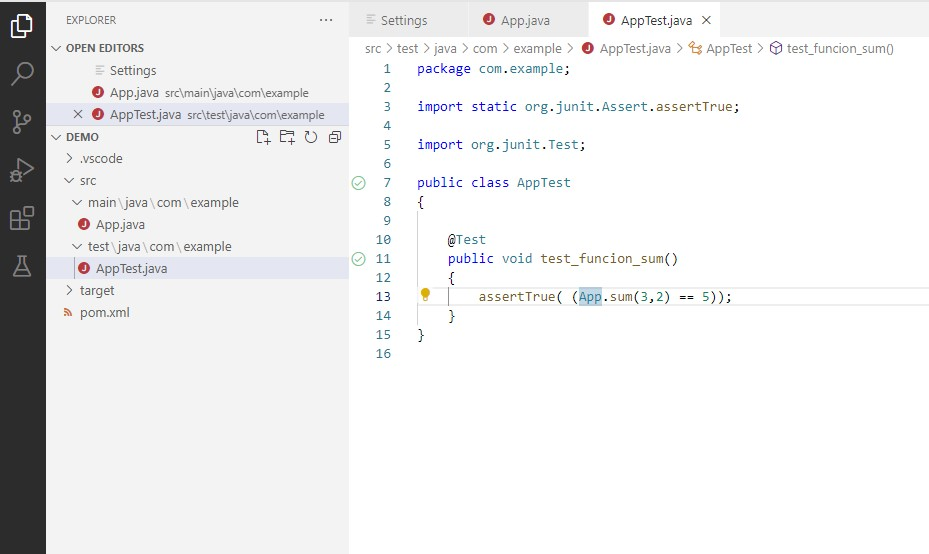
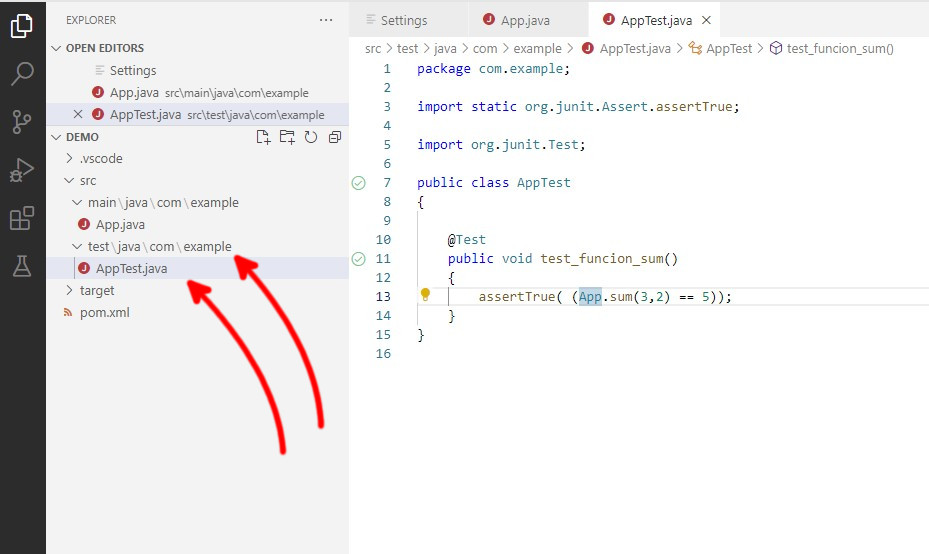
modificaciones imagenes

diff --git a/knowledge/Programacion/Java/Conceptos avanzados/Unit testing.html b/knowledge/Programacion/Java/Conceptos avanzados/Unit testing.html
@@ -99,13 +99,17 @@
 
     <div class="t2">Ejecucion de Tests</div>
         <div class="cont">
-        <p>Cuando escribimos un test la primera vez que lo vayamos a ejecutar tenemos que lanzarlo con el comando <b>mvn test</b> (ya sea desde la consola o desde el IDE de Visual Code), esto se debe a que los tests primero se tienen que compilar, si intentamos ejecutarlos directamente desde el Visual Code, no se ejecutaran porque la clase de los tests no esta creada</p>
+        <p>Cuando escribimos un test la primera vez que lo vayamos a ejecutar tenemos que lanzarlo con el comando <b>mvn test</b> (ya sea desde la consola o desde el IDE de Visual Code), esto se debe a que los tests primero se tienen que compilar, si intentamos ejecutarlos directamente desde el Visual Code, no se ejecutaran porque el archivo <b>.class</b> de los tests no esta creado</p>
 
         <img src="Unit testing/2.jpg"/>
 
-        <p>Entonces, primero compilamos los tests (esto ya los ejecutará directamente)</p>
+        <p>Entonces, primero compilamos los tests con <b>mvn test</b>(esto ya los ejecutará directamente)</p>
 
-        <p>y una vez esten compilados ya los podemos ejecutar directamente desde el visual code, si queremos podemos ejecutarlos siempre usando el <b>mvn test</b>
+        <p>y una vez esten compilados ya los podemos ejecutar directamente desde el visual code</p>
+        
+        <img src="Unit testing/3.jpg"/>
+        
+        <p>Aunque si queremos podemos ejecutarlos siempre usando el <b>mvn test</b>
         </div>
 
     <div class="t2">Tags</div>
